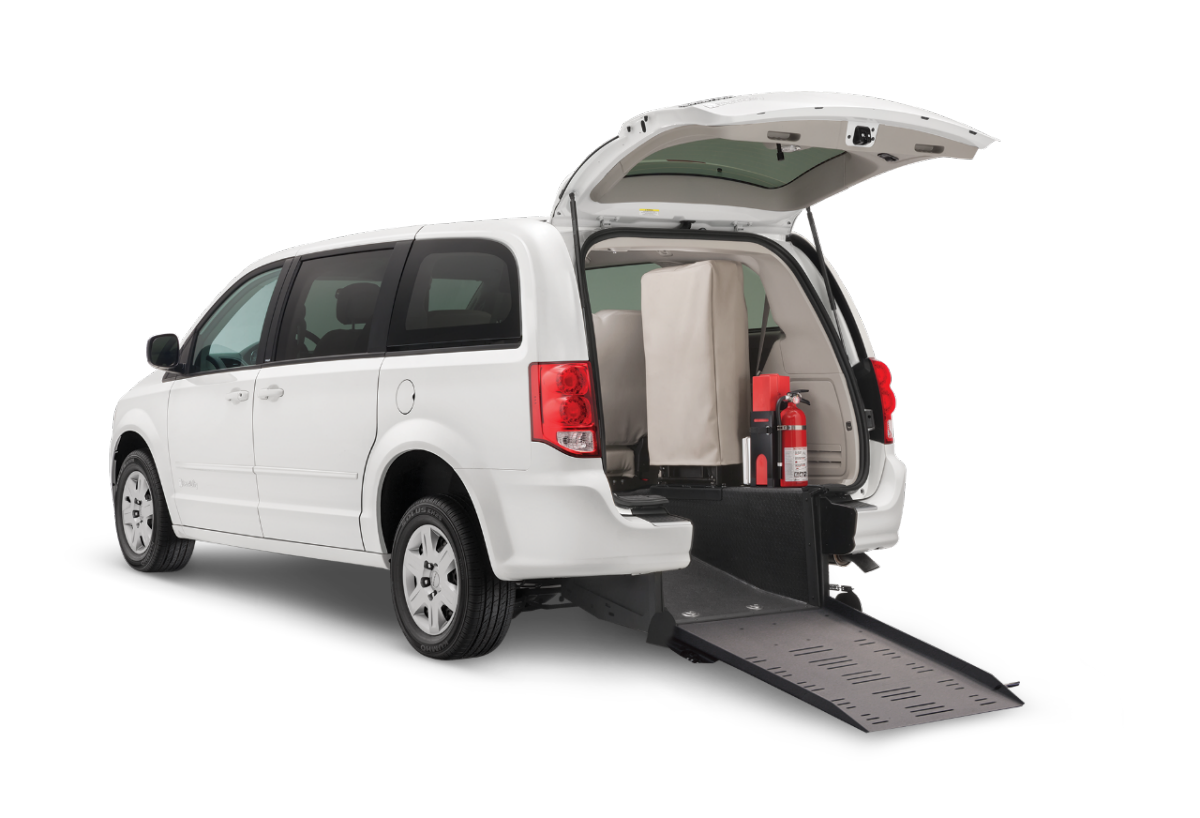
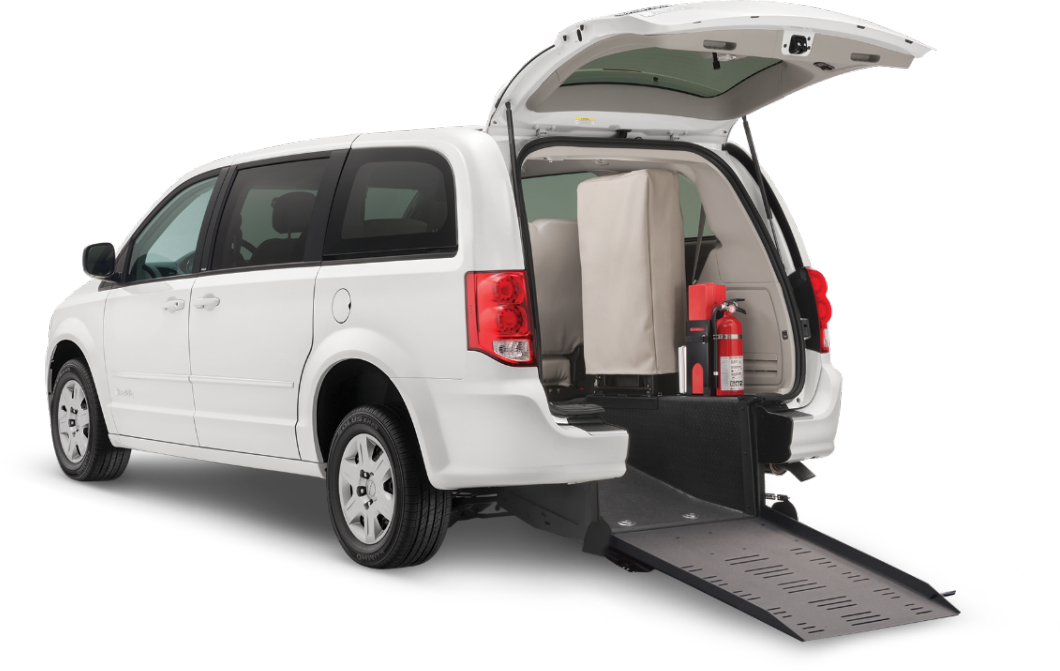
centered the picture on home page jumbotron

diff --git a/resources/views/master.blade.php b/resources/views/master.blade.php
@@ -17,7 +17,7 @@
                     Call and schedule a pickup today
                 </a>
             </div>
-            <div class="col-md-6">
+            <div class="col-md-6 my-auto">
                 <img src="{{ asset( 'img/nemt-van.png' ) }}" class="img-fluid" alt="nemt-van" />
             </div>
 </div> <!-- /.row -->
